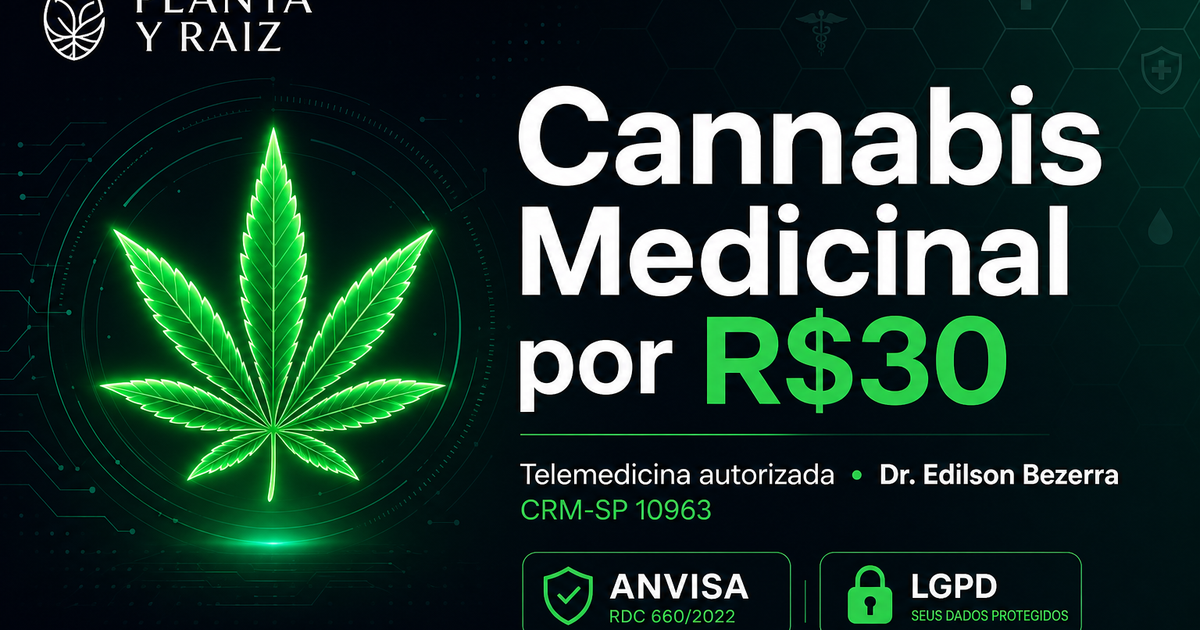
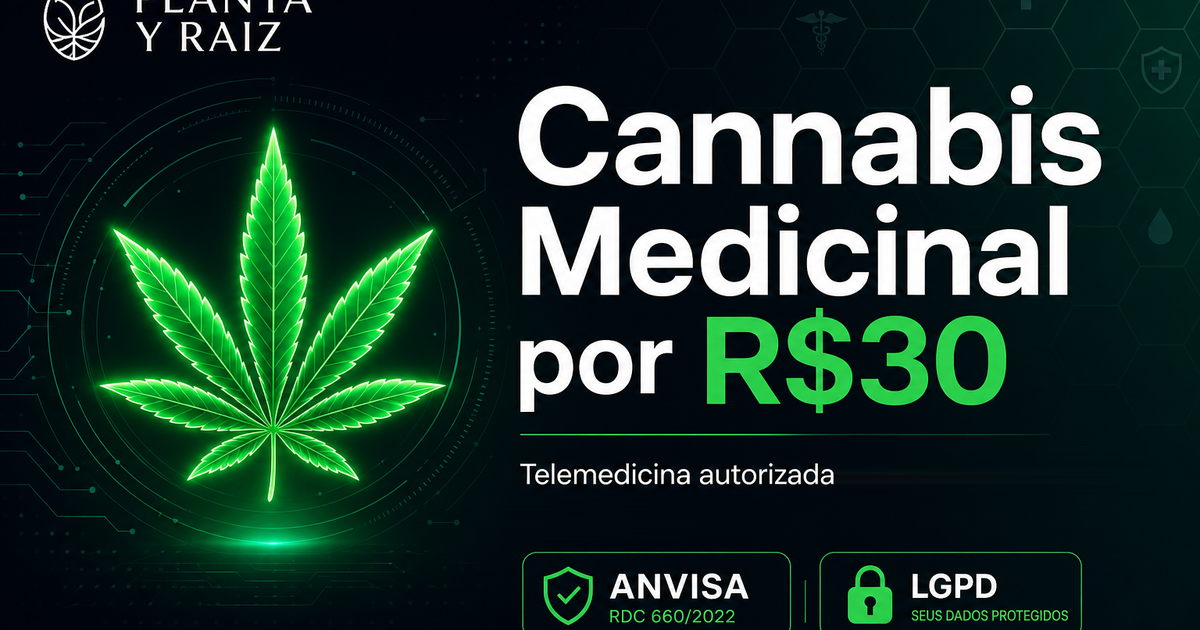
fix(n8n-brisa): mutual exclusion between n8n and live responder, remove CRM from og-image and messages

Changed region(s): [[0.7092, 0.7238, 0.925, 0.7841], [0.4317, 0.7841, 0.5858, 0.8444]]

diff --git a/scripts/sync_n8n_orientation_contacts.py b/scripts/sync_n8n_orientation_contacts.py
@@ -1,0 +1,48 @@
+import sqlite3
+import json
+import time
+import os
+
+DB_PATH = '/var/lib/docker/volumes/n8n-a3wy_n8n_data/_data/database.sqlite'
+OUT_FILE = '/opt/plantayraiz/scripts/n8n_active_orientation_contacts.json'
+
+def sync():
+    active_phones = set()
+    if os.path.exists(DB_PATH):
+        try:
+            conn = sqlite3.connect(DB_PATH)
+            c = conn.cursor()
+            c.execute("SELECT staticData FROM workflow_entity WHERE id = 'LdAWxfIxg0s67H32'")
+            row = c.fetchone()
+            conn.close()
+            if row and row[0]:
+                data = json.loads(row[0]).get('global', {})
+                pagos = data.get('pagos', {})
+                for phone, info in pagos.items():
+                    if isinstance(info, dict) and not info.get('encerrado'):
+                        clean = ''.join(ch for ch in str(phone) if ch.isdigit())
+                        if clean:
+                            active_phones.add(clean)
+                pedidos = data.get('pedidosAbertos', {})
+                for phone in pedidos:
+                    clean = ''.join(ch for ch in str(phone) if ch.isdigit())
+                    if clean:
+                        active_phones.add(clean)
+        except Exception as e:
+            print(f"Error reading n8n sqlite: {e}")
+
+    payload = {
+        'activePatients': list(active_phones),
+        'updated_at': time.time(),
+        'count': len(active_phones)
+    }
+
+    try:
+        with open(OUT_FILE, 'w', encoding='utf-8') as f:
+            json.dump(payload, f, indent=2)
+        print(f"Synced {len(active_phones)} active n8n orientation contacts to {OUT_FILE}")
+    except Exception as e:
+        print(f"Error writing out file: {e}")
+
+if __name__ == '__main__':
+    sync()
